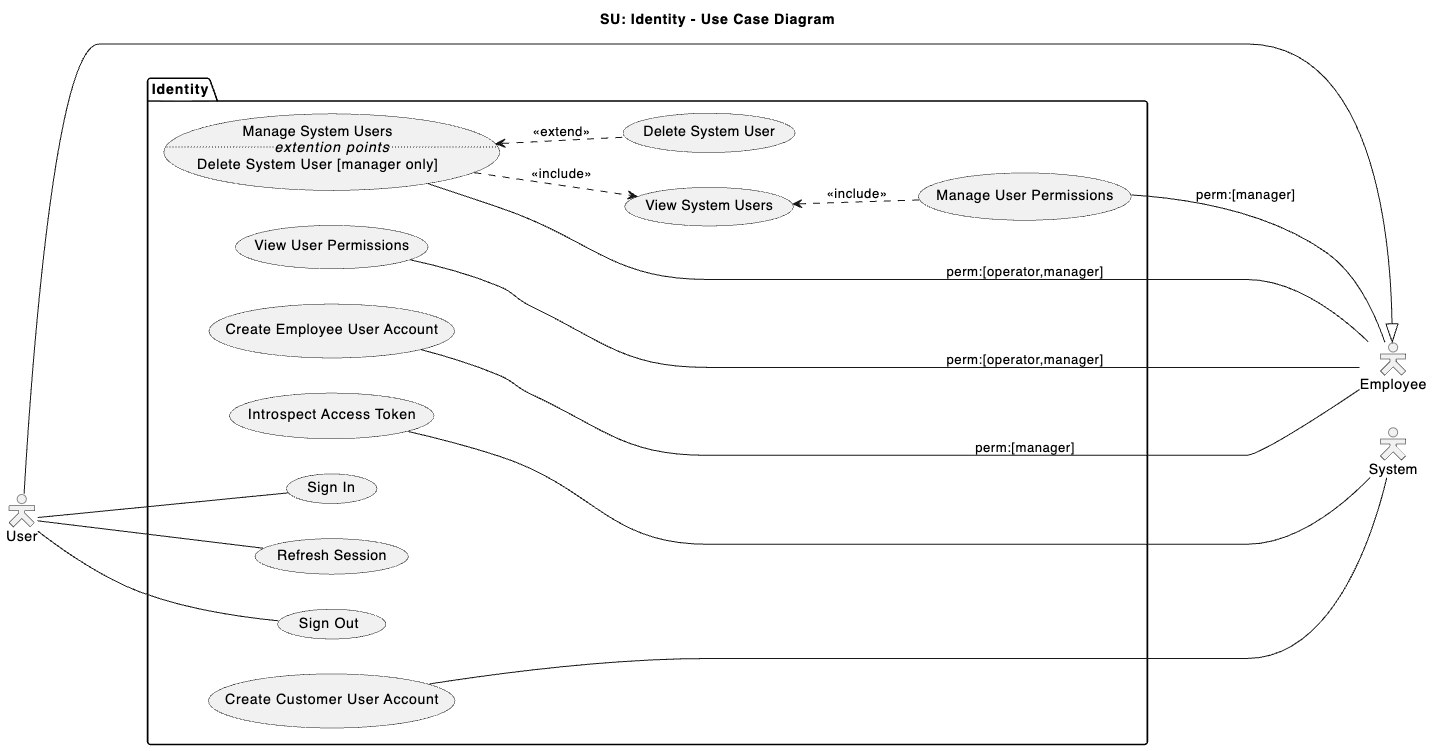
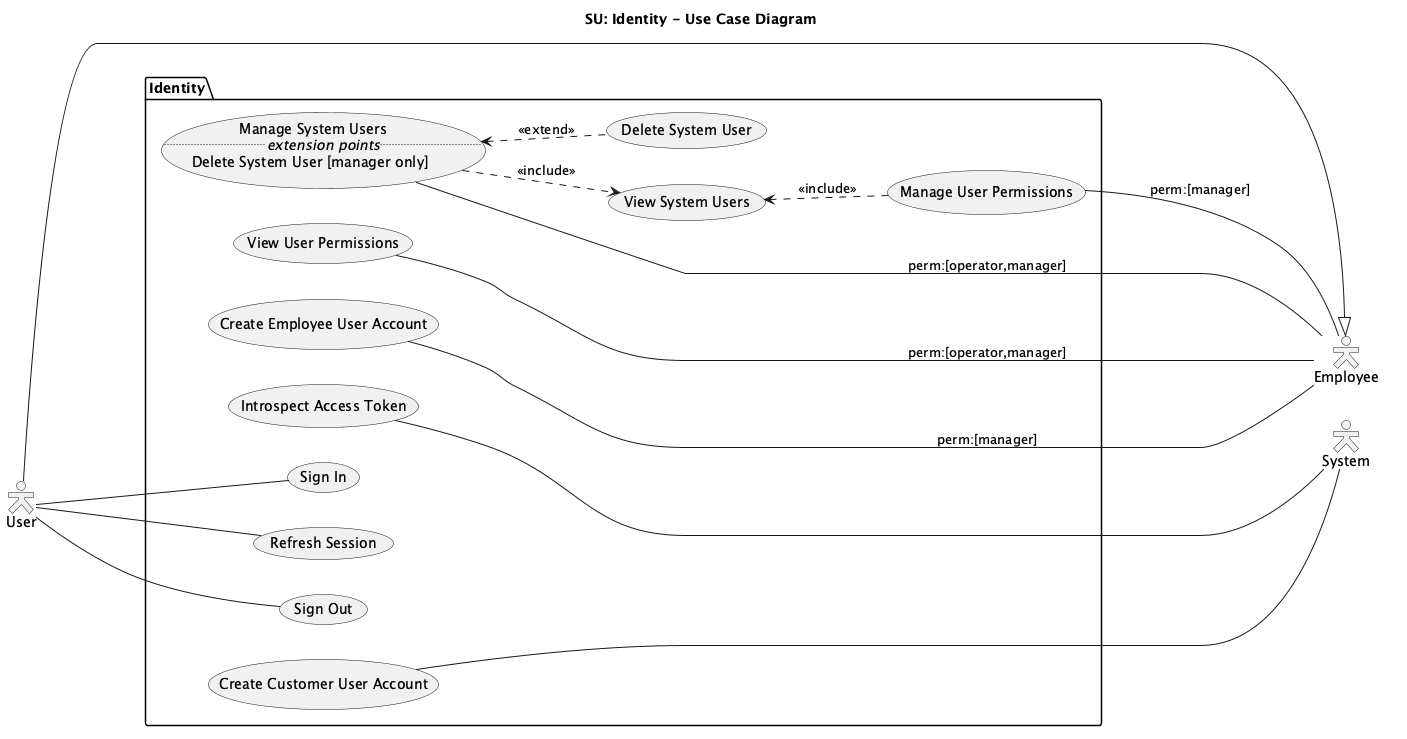
Refactor diagrams into multi-page format and update auth logic
Split sequence diagrams (place-order and web-auth) into multi-page formats using PlantUML's newpage directive, generating separate PNG exports for each page.

Add export-diagrams script to automate diagram export process from .puml sources to PNG files.

Fix spelling: "extention" → "extension" in use-case diagrams.

Simplify auth middleware: permission-denied redirects to / instead of logging out and redirecting to /login, matching the updated sequence diagram flow.

diff --git a/src/Matterway.Dashboard.Web/app/middleware/auth.global.ts b/src/Matterway.Dashboard.Web/app/middleware/auth.global.ts
@@ -21,8 +21,7 @@ export default defineNuxtRouteMiddleware(async (to) => {
 
   if (requiredService && requiredPermissions?.length) {
     if (!auth.hasPermission(requiredService, requiredPermissions)) {
-      await auth.logout()
-      return navigateTo("/login")
+      return navigateTo("/")
     }
   }
 })
